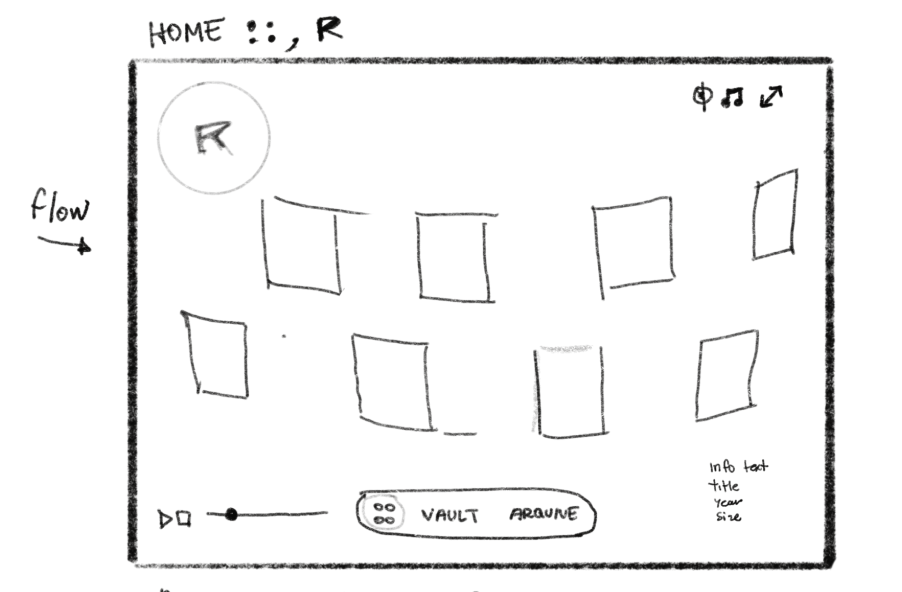
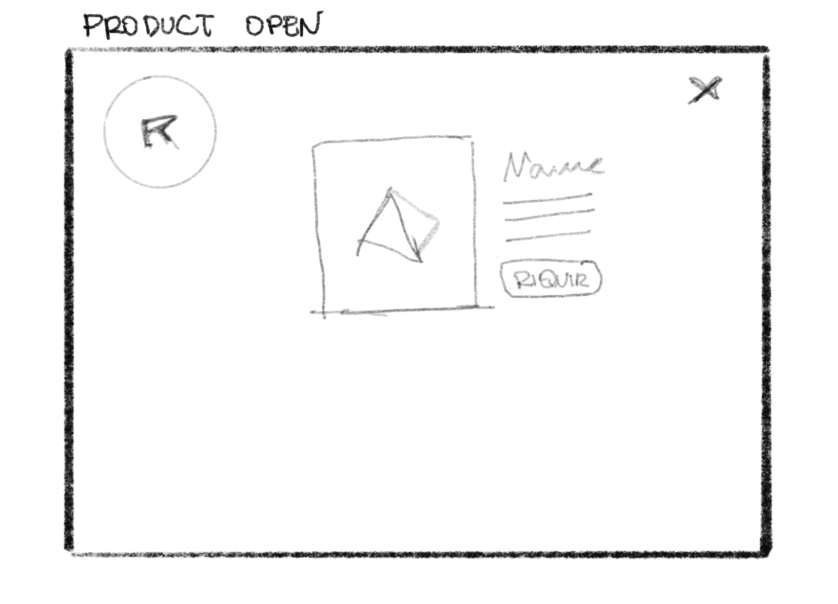
Fix repo references back to raigon-mmxi and reorganized skeleton images

diff --git a/README.md b/README.md
@@ -1,11 +1,11 @@
-# [raigon](https://raigonlab.github.io/raigon)
+# [raigon](https://raigonlab.github.io/raigon-mmxi)
 
 Developer: Railson Goncalves ([raigonlab](https://www.github.com/raigonlab))
 
-[![GitHub commit activity](https://img.shields.io/github/commit-activity/t/raigonlab/raigon)](https://www.github.com/raigonlab/raigon/commits/main)
-[![GitHub last commit](https://img.shields.io/github/last-commit/raigonlab/raigon)](https://www.github.com/raigonlab/raigon/commits/main)
-[![GitHub repo size](https://img.shields.io/github/repo-size/raigonlab/raigon)](https://www.github.com/raigonlab/raigon)
-[![badge](https://img.shields.io/badge/deployment-GitHub_Pages-purple)](https://raigonlab.github.io/raigon)
+[![GitHub commit activity](https://img.shields.io/github/commit-activity/t/raigonlab/raigon-mmxi)](https://www.github.com/raigonlab/raigon-mmxi/commits/main)
+[![GitHub last commit](https://img.shields.io/github/last-commit/raigonlab/raigon-mmxi)](https://www.github.com/raigonlab/raigon-mmxi/commits/main)
+[![GitHub repo size](https://img.shields.io/github/repo-size/raigonlab/raigon-mmxi)](https://www.github.com/raigonlab/raigon-mmxi)
+[![badge](https://img.shields.io/badge/deployment-GitHub_Pages-purple)](https://raigonlab.github.io/raigon-mmxi)
 
 ---
 
@@ -21,13 +21,13 @@ The key technical decisions were: a single-page architecture with hash-based rou
 
 The long-term vision is to evolve this system into a framework that other independent artists can use to present and manage their work online, reducing dependence on traditional platforms.
 
-#### [Live site →](https://raigonlab.github.io/raigon)
+#### [Live site →](https://raigonlab.github.io/raigon-mmxi)
 
 ---
 
 ![raigon responsive mockup](documentation/responsive_design.png)
 
-*source: https://ui.dev/amiresponsive?url=https://raigonlab.github.io/raigon*
+*source: https://ui.dev/amiresponsive?url=https://raigonlab.github.io/raigon-mmxi*
 
 ---
 
@@ -277,7 +277,7 @@ The site was deployed to GitHub Pages. The steps to deploy are as follows:
 3. In the build and deployment area, choose from source **"deploy from a branch"** and then choose the **main** branch, **root** folder, and save
 4. Once saved, the page will be automatically refreshed with a ribbon confirming successful deployment (it can take around 5 minutes for the link to appear)
 
-**Live link:** https://raigonlab.github.io/raigon
+**Live link:** https://raigonlab.github.io/raigon-mmxi
 
 ### Local Development
 
@@ -285,11 +285,11 @@ To run the project locally:
 
 1. Clone the repository:
    ```
-   git clone https://github.com/raigonlab/raigon.git
+   git clone https://github.com/raigonlab/raigon-mmxi.git
    ```
 2. Navigate into the project folder:
    ```
-   cd raigon
+   cd raigon-mmxi
    ```
 3. Start a local server — either with the VS Code Live Server extension, or via terminal:
    ```